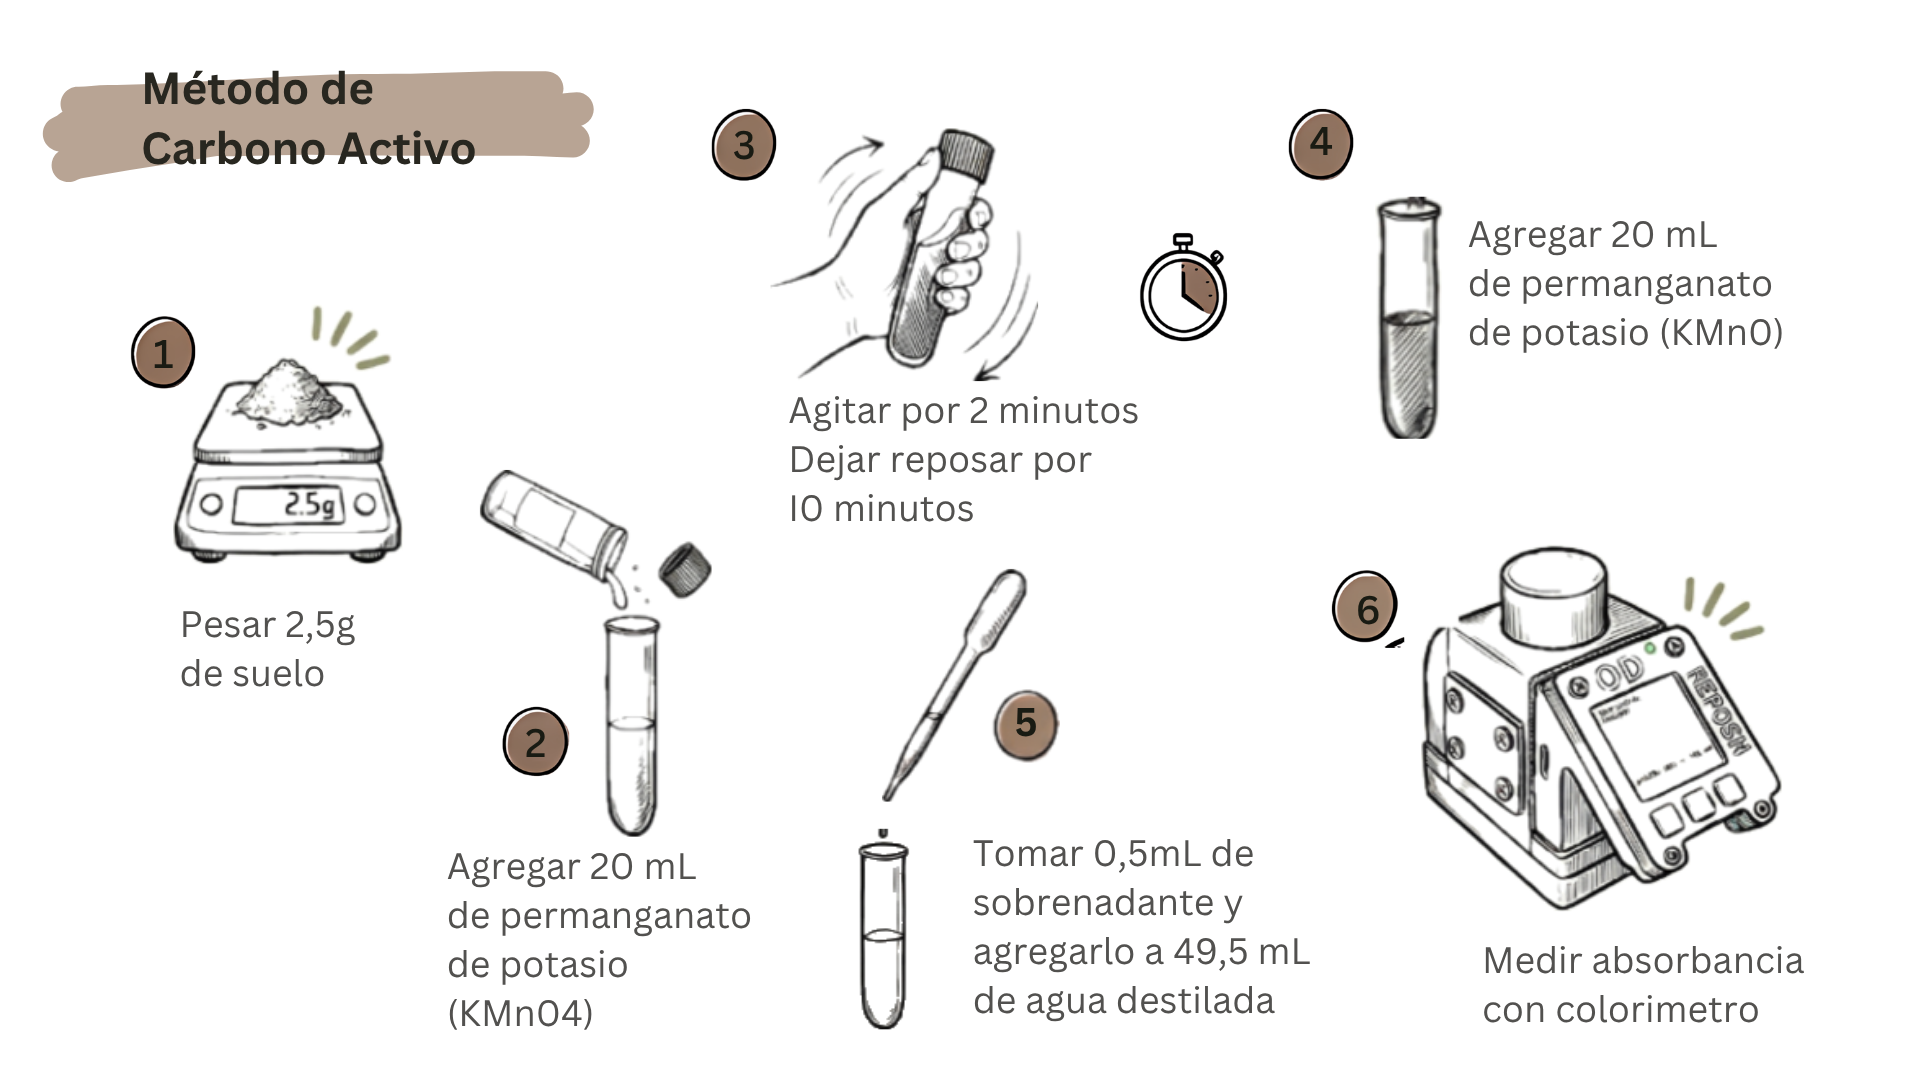
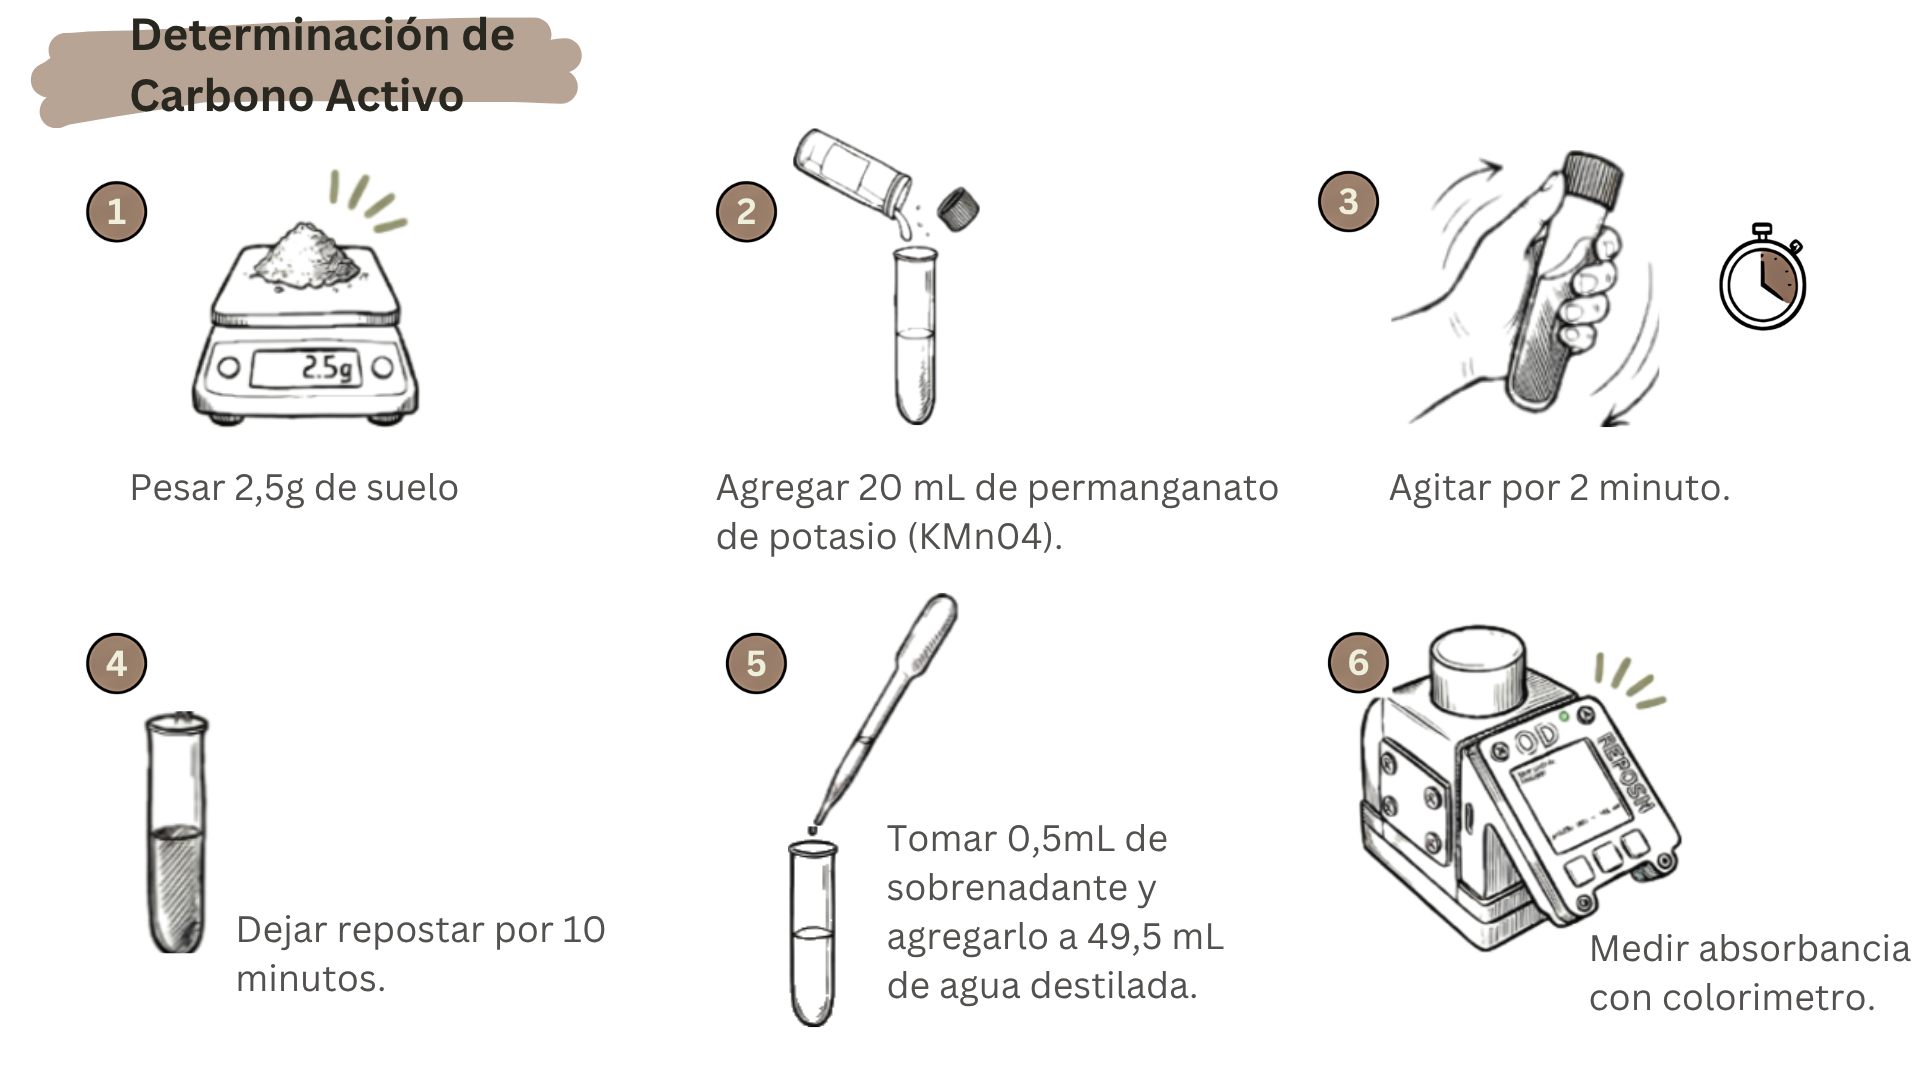
Agrega marcadores de muestras en mapa de parcelas y guía de plataforma
- Muestra puntos de muestreo (círculos naranja) sobre el mapa de parcelas en la sub-pestaña Parcelas
- Agrega GUIA_PLATAFORMA.md con documentación de uso de la plataforma
- Mejora exportación CSV: formatea números con coma decimal y ordena por ID
- Actualiza ícono del login de árbol a frasco de laboratorio
- Actualiza bootstrap-icons a 1.11.3

diff --git a/templates/index.html b/templates/index.html
@@ -968,6 +968,12 @@
                                 {% endif %}{% endfor %}
                             ];
 
+                            const muestrasMapData = [
+                                {% for f in consolidado %}{% if f.latitud and f.longitud %}
+                                { nombre: {{ f.nombre_muestra|tojson }}, cultivo: {{ (f.cultivo or '')|tojson }}, lat: {{ f.latitud }}, lng: {{ f.longitud }} },
+                                {% endif %}{% endfor %}
+                            ];
+
                             let mapaInit = false;
                             let mapaObj = null;
 
@@ -1015,6 +1021,22 @@
 
                                     layer.addTo(mapaObj);
                                     try { allBounds.push(layer.getBounds()); } catch(e) {}
+                                });
+
+                                muestrasMapData.forEach(function(m) {
+                                    const marker = L.circleMarker([m.lat, m.lng], {
+                                        radius: 7,
+                                        color: '#fff',
+                                        weight: 2,
+                                        fillColor: '#e05c2e',
+                                        fillOpacity: 0.95
+                                    }).addTo(mapaObj);
+                                    marker.bindPopup(
+                                        '<strong style="font-size:.95rem">📍 ' + m.nombre + '</strong>' +
+                                        (m.cultivo ? '<br><span class="text-muted">Cultivo: ' + m.cultivo + '</span>' : ''),
+                                        { minWidth: 140 }
+                                    );
+                                    try { allBounds.push(marker.getBounds ? marker.getBounds() : L.latLngBounds([[m.lat, m.lng]])); } catch(e) {}
                                 });
 
                                 if (allBounds.length) {

diff --git a/templates/login.html b/templates/login.html
@@ -7,7 +7,7 @@
     
     <link href="https://fonts.googleapis.com/css2?family=Montserrat:wght@400;500;600;700;800&display=swap" rel="stylesheet">
     <link href="https://cdn.jsdelivr.net/npm/bootstrap@5.3.0/dist/css/bootstrap.min.css" rel="stylesheet">
-    <link rel="stylesheet" href="https://cdn.jsdelivr.net/npm/bootstrap-icons@1.11.1/font/bootstrap-icons.css">
+    <link rel="stylesheet" href="https://cdn.jsdelivr.net/npm/bootstrap-icons@1.11.3/font/bootstrap-icons.css">
 
     <style>
         body { 
@@ -112,7 +112,7 @@
 <body>
 
     <div class="header-bar">
-        <h3 class="lab-title"><i class="bi bi-tree-fill me-2 text-highlight"></i> LAB AGROECOLÓGICO</h3>
+        <h3 class="lab-title"><i class="bi bi-flask-fill me-2 text-highlight"></i> LAB AGROECOLÓGICO</h3>
     </div>
 
     <div class="login-container">
@@ -125,7 +125,7 @@
             <div class="login-card">
                 
                 <div class="text-center">
-                    <i class="bi bi-tree-fill card-icon d-inline-block"></i>
+                    <i class="bi bi-flask-fill card-icon d-inline-block"></i>
                     <h4>Laboratorio Abierto</h4>
                 </div>
                 

diff --git a/app.py b/app.py
@@ -17,6 +17,7 @@ import pandas as pd
 import psycopg
 from psycopg.rows import dict_row
 from psycopg import errors
+from decimal import Decimal
 
 from flask import Flask, render_template, request, redirect, url_for, session, flash, Response, jsonify, make_response
 from werkzeug.security import generate_password_hash, check_password_hash
@@ -570,25 +571,39 @@ def eliminar_cromo(muestra_id):
         conexion.close()
     return redirect(url_for('inicio') + '#cromatografia')
 
+def _fmt_csv(v):
+    if v is None:
+        return ''
+    if isinstance(v, bool):
+        return str(v)
+    if isinstance(v, int):
+        return str(v)
+    try:
+        fv = float(v)
+        formatted = f'{fv:.6f}'.rstrip('0').rstrip('.')
+        return formatted.replace('.', ',')
+    except (TypeError, ValueError):
+        return str(v)
+
 @app.route('/descargar_csv')
 def descargar_csv():
     if 'usuario_id' not in session: return redirect(url_for('login'))
     conexion = obtener_conexion()
     cur = conexion.cursor()
-    consulta = '''SELECT m.id AS "ID", m.nombre_muestra AS "Muestra", m.cultivo AS "Cultivo", m.textura AS "Textura", m.latitud AS "Latitud", m.longitud AS "Longitud", m.descripcion AS "Descripcion", 
+    consulta = '''SELECT m.id AS "ID", m.nombre_muestra AS "Muestra", m.cultivo AS "Cultivo", m.textura AS "Textura", m.latitud AS "Latitud", m.longitud AS "Longitud", m.descripcion AS "Descripcion",
                   m.foto_macrofauna AS "Foto_Macrofauna", m.foto_cromatografia AS "Foto_Cromatografia", m.obs_cromatografia AS "Obs_Cromatografia",
-                  c.resultado_carbono AS "Carbono_Activo", fo.resultado_ppm AS "Fosforo_ppm", fo.resultado_mg_kg AS "Fosforo_mg_kg", 
-                  p.ph AS "pH", p.conductividad AS "Conductividad", mo.resultado_porcentaje AS "Mat_Particulada_Porc", 
+                  c.resultado_carbono AS "Carbono_Activo", fo.resultado_ppm AS "Fosforo_ppm", fo.resultado_mg_kg AS "Fosforo_mg_kg",
+                  p.ph AS "pH", p.conductividad AS "Conductividad", mo.resultado_porcentaje AS "Mat_Particulada_Porc",
                   ea.indice_slakes AS "Indice_Slakes",
                   rs.ugc_gsoil AS "Respiracion_ugC_g"
-                  FROM muestras m 
-                  LEFT JOIN carbono_activo c ON m.id = c.muestra_id 
-                  LEFT JOIN fosforo_olsen fo ON m.id = fo.muestra_id 
-                  LEFT JOIN ph_conductividad p ON m.id = p.muestra_id 
-                  LEFT JOIN materia_organica mo ON m.id = mo.muestra_id 
-                  LEFT JOIN estabilidad_agregados ea ON m.id = ea.muestra_id 
+                  FROM muestras m
+                  LEFT JOIN carbono_activo c ON m.id = c.muestra_id
+                  LEFT JOIN fosforo_olsen fo ON m.id = fo.muestra_id
+                  LEFT JOIN ph_conductividad p ON m.id = p.muestra_id
+                  LEFT JOIN materia_organica mo ON m.id = mo.muestra_id
+                  LEFT JOIN estabilidad_agregados ea ON m.id = ea.muestra_id
                   LEFT JOIN respiracion_suelo rs ON m.id = rs.muestra_id
-                  WHERE m.usuario_id = %s'''
+                  WHERE m.usuario_id = %s ORDER BY m.id'''
     cur.execute(consulta, (session['usuario_id'],))
     filas = cur.fetchall()
     nombres_columnas = [col.name for col in cur.description]
@@ -598,7 +613,8 @@ def descargar_csv():
     output.write('\ufeff')
     writer = csv.writer(output, delimiter=';')
     writer.writerow(nombres_columnas)
-    for fila in filas: writer.writerow(list(fila.values()))
+    for fila in filas:
+        writer.writerow([_fmt_csv(v) for v in fila.values()])
     return Response(output.getvalue(), mimetype="text/csv", headers={"Content-disposition": "attachment; filename=Mis_Datos_Suelos.csv"})
 
 @app.route('/sincronizar_api', methods=['POST'])

diff --git a/GUIA_PLATAFORMA.md b/GUIA_PLATAFORMA.md
@@ -1,0 +1,132 @@
+# Guía de la Plataforma — Laboratorio Abierto Agroecológico
+
+## ¿Qué es la plataforma?
+
+El **Laboratorio Abierto Agroecológico** es una aplicación web para el seguimiento y análisis de la salud del suelo en sistemas productivos agroecológicos. Permite registrar muestras de suelo, cargar los resultados de distintos análisis de laboratorio, importar datos de productores y parcelas desde **SurveyStack**, y visualizar los resultados de forma integrada.
+
+Está diseñada para funcionar también sin conexión a internet (modo offline), guardando los datos ingresados localmente hasta que se pueda sincronizar.
+
+---
+
+## Cómo ingresar a la plataforma
+
+1. Abrí el navegador y accedé a la URL de la plataforma.
+2. En la pantalla de inicio verás dos opciones:
+   - **Registrarse**: para crear una cuenta nueva (ingresás nombre de usuario, email y contraseña).
+   - **Iniciar sesión**: si ya tenés cuenta, ingresás tu usuario y contraseña.
+3. Una vez autenticado, serás redirigido al panel principal.
+
+> Las contraseñas se almacenan de forma segura (hash). La plataforma no guarda contraseñas en texto plano.
+
+---
+
+## Estructura general
+
+La aplicación está organizada en una barra lateral izquierda con las siguientes secciones:
+
+### GENERAL
+- **Muestras** — Registro de nuevas muestras de suelo con nombre, ubicación, cultivo y descripción. Incluye una sub-pestaña de **SurveyStack**.
+
+### LABORATORIO
+Cada pestaña corresponde a un método de análisis:
+
+| Pestaña | Método |
+|---|---|
+| **Textura** | Clasificación textural por método organoléptico ("gusanito") |
+| **Respiración** | Respiración basal del suelo (actividad de CO₂) |
+| **Carbono Activo** | POXC — Carbono Oxidable por Permanganato |
+| **Fósforo** | Método Olsen — disponibilidad de fósforo |
+| **pH / CE** | pH y conductividad eléctrica del suelo |
+| **MOP** | Materia Orgánica Particulada (%) |
+| **Agregados** | Estabilidad de agregados — Índice Slakes (escala 0–6) |
+
+### BIODIVERSIDAD
+- **Macrofauna** — Registro fotográfico de fauna del suelo.
+- **Cromatografía** — Análisis circular de cromatografía de Pfeiffer con foto y observaciones.
+
+### MÉTRICAS
+- **Resultados** — Visualización consolidada de todos los datos cargados.
+
+---
+
+## SurveyStack
+
+**SurveyStack** es una plataforma externa de encuestas digitales utilizada para relevar información de productores, parcelas y muestras de suelo en campo. La plataforma puede importar automáticamente esos datos.
+
+### Cómo conectar tu cuenta de SurveyStack
+
+1. Ir a la pestaña **Muestras → SurveyStack**.
+2. Ingresar el **email** y la **contraseña** de tu cuenta de SurveyStack.
+3. Hacer clic en **Conectar**. Se guarda un token de acceso (no la contraseña).
+4. Una vez conectado, aparecen las encuestas disponibles para importar.
+
+### Encuestas preconfiguradas
+
+La plataforma tiene tres encuestas integradas:
+
+| Encuesta | Descripción |
+|---|---|
+| **Muestra Suelo** | Registro de muestras de suelo en campo |
+| **Test Parcela** | Datos de la parcela (superficie, cultivo, historial) |
+| **Test Productor** | Perfil del productor y la finca |
+
+### Importar datos
+
+1. Seleccionar la encuesta que querés importar.
+2. Hacer clic en **Importar**. La plataforma descarga las respuestas desde SurveyStack y las asocia a tu cuenta.
+3. Los datos de productores quedarán disponibles en la pestaña **Productores** y los de parcelas en **Parcelas** (dentro de Resultados).
+
+### Desconectar
+
+En la misma sección se puede revocar el acceso con el botón **Desconectar**.
+
+---
+
+## Asistente de métodos (chat emergente)
+
+En la esquina inferior derecha de la pantalla encontrarás un botón flotante con un ícono de chat. Al hacer clic, se abre el **Asistente de Métodos de Laboratorio**.
+
+### ¿Qué hace?
+
+El asistente detecta automáticamente en qué pestaña de análisis estás parado y ofrece respuestas sobre ese método específico.
+
+### Preguntas predefinidas
+
+Para cada método hay tres preguntas rápidas disponibles:
+
+| Botón | Pregunta |
+|---|---|
+| **¿Qué es?** | Descripción del método o indicador |
+| **¿Para qué sirve?** | Utilidad e información que aporta al análisis del suelo |
+| **¿Cómo se interpreta?** | Rangos de referencia y lectura de los resultados |
+
+También podés escribir tu propia pregunta en el campo de texto.
+
+> El asistente se oculta automáticamente en la sección de Resultados, ya que allí la información se presenta de otra forma.
+
+---
+
+## Sección de Resultados
+
+La pestaña **Resultados** integra todos los datos cargados en un solo lugar. Tiene cuatro sub-pestañas:
+
+### Resultados (principal)
+
+- **Tabla consolidada**: muestra todas las muestras con sus valores por método (textura, pH, CE, POXC, fósforo, respiración, MOP, Índice Slakes, cromatografía). Cada columna tiene un botón `ⓘ` con información de interpretación del indicador.
+- **Gráfico de burbujas**: visualización interactiva de correlaciones entre dos indicadores seleccionables en los ejes X e Y.
+- **Gráfico de respiración**: evolución del CO₂ a lo largo del tiempo para todas las muestras.
+- **Radar**: perfil comparativo de una muestra seleccionada.
+- **Mapa**: ubicación geográfica de las muestras sobre un mapa interactivo (Leaflet).
+- **Exportar CSV**: botón para descargar todos los datos en formato `.csv`.
+
+### Muestra
+
+Vista detallada de una muestra individual con todos sus análisis cargados.
+
+### Parcelas
+
+Listado de parcelas importadas desde SurveyStack, con datos productivos de cada una.
+
+### Productores
+
+Perfiles de productores importados desde SurveyStack con datos de sus fincas.